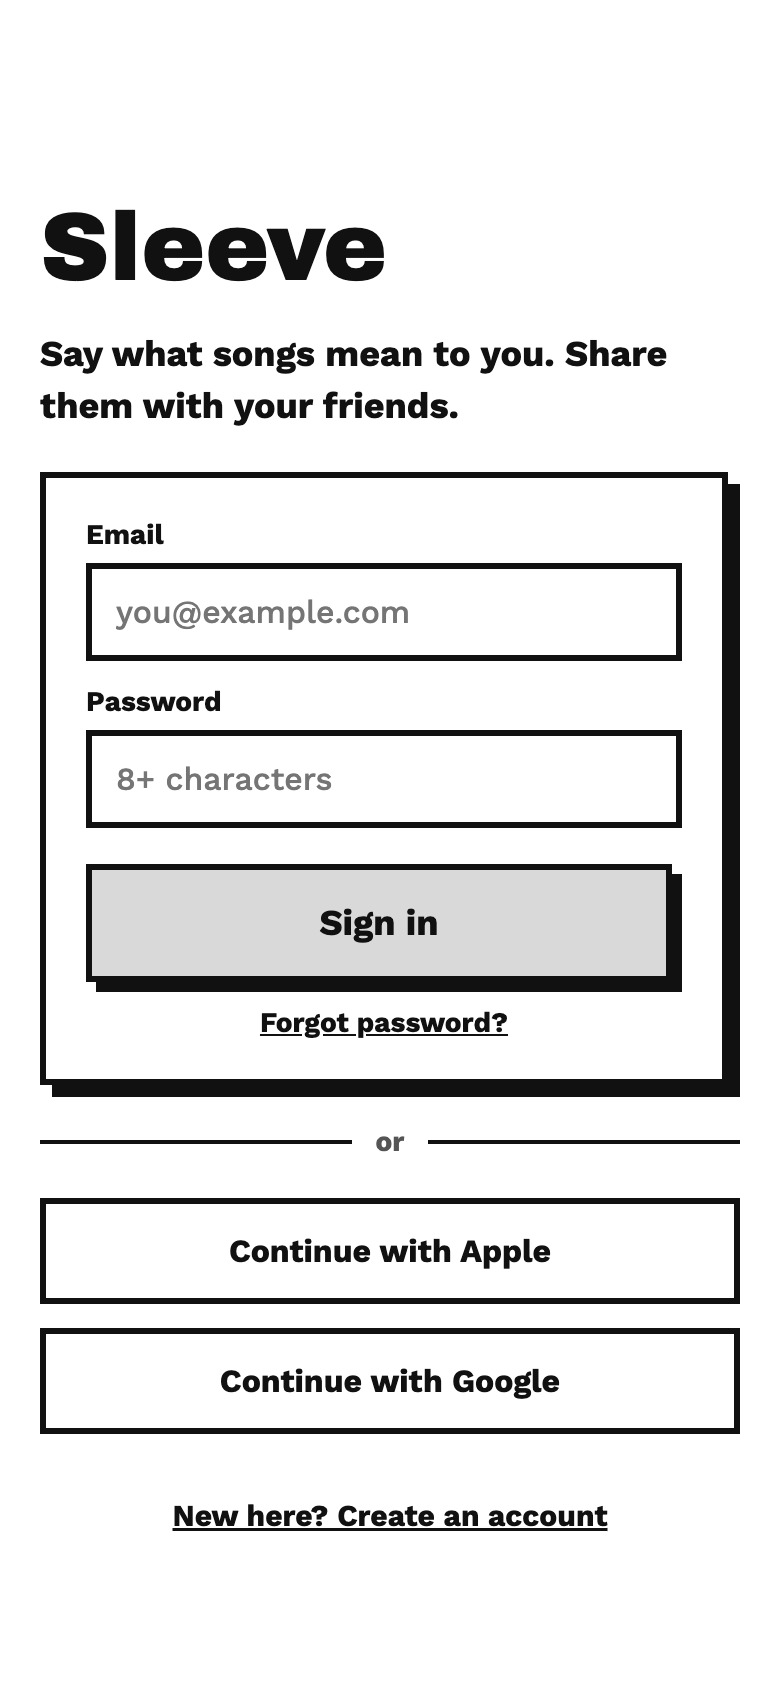
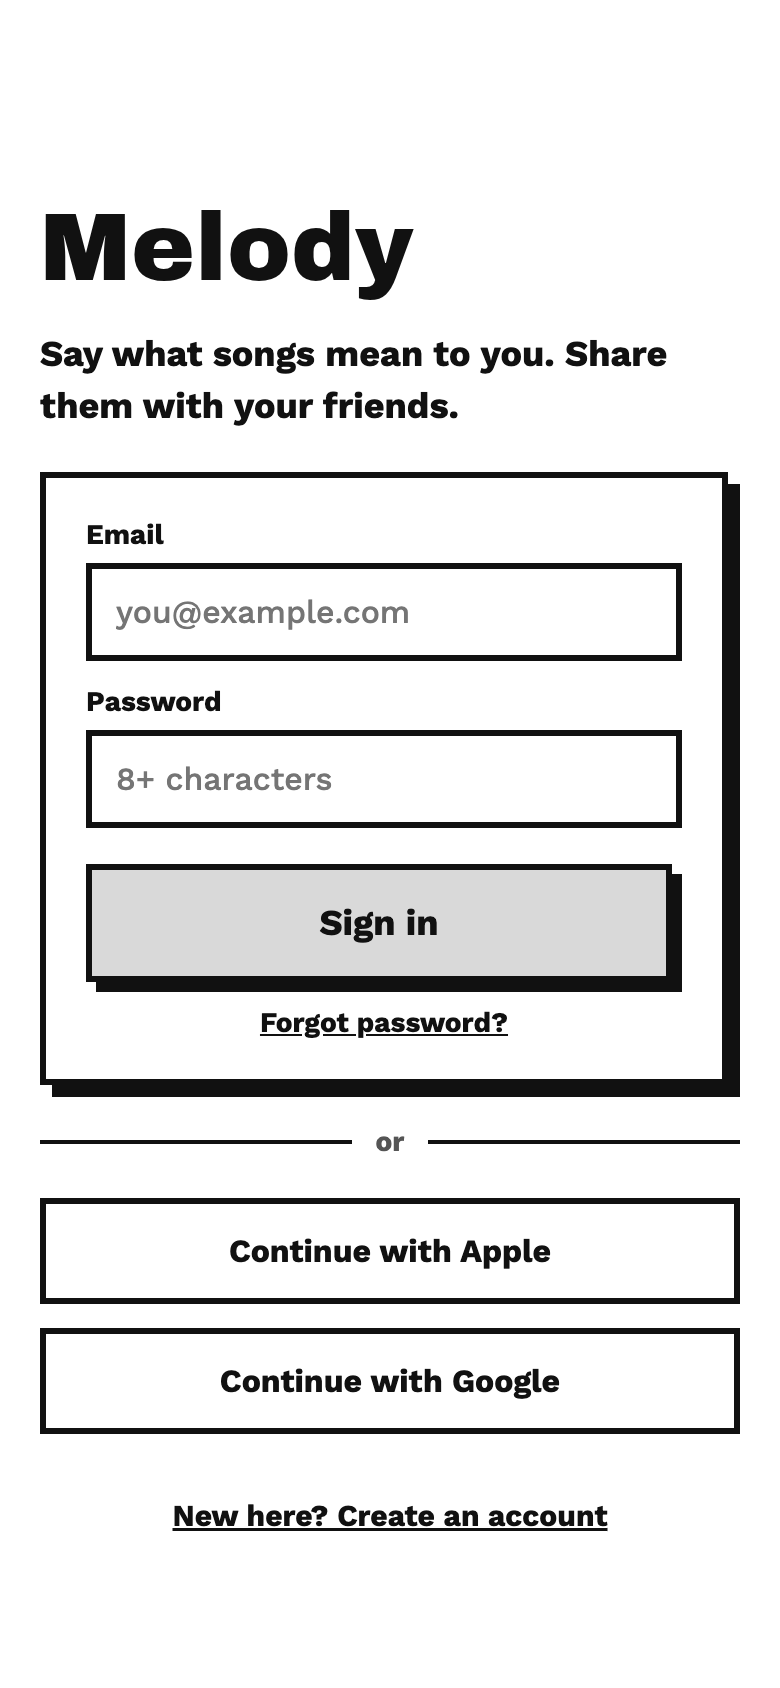
sleeve removed

Changed region(s): [[0.0615, 0.1232, 0.5231, 0.1848]]

diff --git a/prototype-react/src/screens.js b/prototype-react/src/screens.js
@@ -83,7 +83,7 @@ export function createScreenMarkup(id, S) {
   /* ---------- Template helpers ---------- */
   const esc = s => String(s).replace(/[&<>"]/g, c => ({ '&': '&amp;', '<': '&lt;', '>': '&gt;', '"': '&quot;' }[c]));
   const val = id => esc(S.inputs[id] || '');
-  const av = (sz, extra = '', seed = 'sleeve-friend') => `<span class="av ${sz < 44 ? 'thin' : ''}" style="--sz:${sz}px" ${extra}>${personAvatarSVG(seed)}</span>`;
+  const av = (sz, extra = '', seed = 'melody-friend') => `<span class="av ${sz < 44 ? 'thin' : ''}" style="--sz:${sz}px" ${extra}>${personAvatarSVG(seed)}</span>`;
   const art = sz => `<span class="art" style="--sz:${sz}px"></span>`;
   const play = (key, cls = '') => {
     const on = S.playing === key;
@@ -101,7 +101,7 @@ export function createScreenMarkup(id, S) {
   /* ---------- Screens ---------- */
   const SCREENS = {
     signin: () => `<div class="scr"><div class="scroll signin">
-      <h1 class="h-xl">Sleeve</h1>
+      <h1 class="h-xl">Melody</h1>
       <p class="tagline">Say what songs mean to you. Share them with your friends.</p>
       <form class="card sh form" data-form="signin">
         <label class="label" for="si-email">Email</label>
@@ -253,7 +253,7 @@ export function createScreenMarkup(id, S) {
     'add-friends': () => `<div class="scr"><div class="scroll">
       <div class="title-row start"><button class="icon-btn" type="button" data-back aria-label="Back">${ic.left}</button><h1 class="h-page h-mid">Add friends</h1></div>
       ${searchBox('add-q', 'Search by @handle', 'addsearch')}
-      <section class="card sh fill invite"><span class="tt"><b>Invite friends to Sleeve</b><span>Send a link by text or any app</span></span><button class="btn" type="button" data-missing="Share link">Share link</button></section>
+      <section class="card sh fill invite"><span class="tt"><b>Invite friends to Melody</b><span>Send a link by text or any app</span></span><button class="btn" type="button" data-missing="Share link">Share link</button></section>
       <ul class="rows" id="add-list">${addRows()}</ul>
     </div></div>`,
 

diff --git a/prototype/app.js b/prototype/app.js
@@ -154,7 +154,7 @@
   /* ---------- Screens ---------- */
   const SCREENS = {
     signin: () => `<div class="scr"><div class="scroll signin">
-      <h1 class="h-xl">Sleeve</h1>
+      <h1 class="h-xl">Melody</h1>
       <p class="tagline">Say what songs mean to you. Share them with your friends.</p>
       <form class="card sh form" data-form="signin">
         <label class="label" for="si-email">Email</label>
@@ -306,7 +306,7 @@
     'add-friends': () => `<div class="scr"><div class="scroll">
       <div class="title-row start"><button class="icon-btn" type="button" data-back aria-label="Back">${ic.left}</button><h1 class="h-page h-mid">Add friends</h1></div>
       ${searchBox('add-q', 'Search by @handle', 'addsearch')}
-      <section class="card sh fill invite"><span class="tt"><b>Invite friends to Sleeve</b><span>Send a link by text or any app</span></span><button class="btn" type="button" data-missing="Share link">Share link</button></section>
+      <section class="card sh fill invite"><span class="tt"><b>Invite friends to Melody</b><span>Send a link by text or any app</span></span><button class="btn" type="button" data-missing="Share link">Share link</button></section>
       <ul class="rows" id="add-list">${addRows()}</ul>
     </div></div>`,
 

diff --git a/prototype-react/src/Prototype.jsx b/prototype-react/src/Prototype.jsx
@@ -9,7 +9,7 @@ function routeId() {
 }
 
 function savedRoute(id) {
-  const saved = history.state?.sleevePrototypeReact
+  const saved = history.state?.melodyPrototypeReact
   return saved && Array.isArray(saved.stack) && saved.stack.length &&
     saved.stack.every(validScreen) && saved.stack.at(-1) === id &&
     Number.isInteger(saved.index) && saved.index >= 0 && saved.index < saved.stack.length
@@ -23,7 +23,7 @@ function initialRoute() {
 }
 
 function writeHistory(method, route) {
-  history[method]({ sleevePrototypeReact: route }, '', '#/' + route.stack.at(-1))
+  history[method]({ melodyPrototypeReact: route }, '', '#/' + route.stack.at(-1))
 }
 
 export default function Prototype() {
@@ -318,7 +318,7 @@ export default function Prototype() {
         <div className="panel-head">
           <div>
             <p className="eyebrow">Lo-fi prototype</p>
-            <h1>Sleeve</h1>
+            <h1>Melody</h1>
             <p className="panel-sub">13 frames, one at a time. Tap through it like the real app, or jump to any frame here.</p>
           </div>
           <button className="panel-close" type="button" onClick={() => setPanelOpen(false)}>Done</button>

diff --git a/prototype-react/tests/prototype.spec.js b/prototype-react/tests/prototype.spec.js
@@ -20,6 +20,8 @@ test('all 13 screens render with assets and fit the viewport', async ({ page }, 
 
 test('sign in, tabs, likes, history and reload work', async ({ page }) => {
   await page.goto('/')
+  await expect(page).toHaveTitle('Melody React Prototype')
+  await expect(page.locator('#screen h1')).toHaveText('Melody')
   await page.getByRole('button', { name: 'Sign in', exact: true }).click()
   await expect(page.locator('#screen')).toHaveAttribute('data-screen', 'discover')
   await page.getByRole('button', { name: 'Friends', exact: true }).click()
@@ -56,6 +58,7 @@ test('song drops and comments clear submitted inputs', async ({ page }) => {
 
 test('friend search, requests and messages work', async ({ page }) => {
   await page.goto('/#/add-friends')
+  await expect(page.locator('.invite b')).toHaveText('Invite friends to Melody')
   await page.getByRole('searchbox').fill('@noor')
   await expect(page.locator('#add-list > li')).toHaveCount(1)
   const request = page.locator('[data-action="addFriend"]')

diff --git a/prototype/index.html b/prototype/index.html
@@ -3,7 +3,7 @@
 <head>
 <meta charset="utf-8">
 <meta name="viewport" content="width=device-width, initial-scale=1, viewport-fit=cover">
-<title>Sleeve Lo-fi Prototype</title>
+<title>Melody Lo-fi Prototype</title>
 <link rel="preconnect" href="https://fonts.googleapis.com">
 <link rel="preconnect" href="https://fonts.gstatic.com" crossorigin>
 <link rel="stylesheet" href="https://fonts.googleapis.com/css2?family=Archivo+Black&family=Archivo:wght@500;600;700;800&family=Work+Sans:wght@400;500;600&display=swap">
@@ -15,7 +15,7 @@
     <div class="panel-head">
       <div>
         <p class="eyebrow">Lo-fi prototype</p>
-        <h1>Sleeve</h1>
+        <h1>Melody</h1>
         <p class="panel-sub">13 frames, one at a time. Tap through it like the real app, or jump to any frame here.</p>
       </div>
       <button class="panel-close" id="panelClose" type="button">Done</button>

diff --git a/prototype-react/index.html b/prototype-react/index.html
@@ -6,7 +6,7 @@
     <link rel="preconnect" href="https://fonts.googleapis.com" />
     <link rel="preconnect" href="https://fonts.gstatic.com" crossorigin />
     <link rel="stylesheet" href="https://fonts.googleapis.com/css2?family=Archivo+Black&family=Archivo:wght@500;600;700;800&family=Work+Sans:wght@400;500;600&display=swap" />
-    <title>Sleeve React Prototype</title>
+    <title>Melody React Prototype</title>
   </head>
   <body>
     <div id="root"></div>

diff --git a/prototype-react/src/avatars.js b/prototype-react/src/avatars.js
@@ -21,7 +21,7 @@ export const AV_TABS = [
   { id: 'colors', label: 'Colors', rows: [], colors: [['Skin tone', 'skinColor'], ['Background', 'bg']] },
 ]
 
-export function initialAvatar(seed = 'sleeve-you') {
+export function initialAvatar(seed = 'melody-you') {
   return {
     seed, tab: 'hair', ...Object.fromEntries(features.map(feature => [feature, 0])),
     hairColor: 0, skinColor: 0, bg: 2,

diff --git a/prototype-react/README.md b/prototype-react/README.md
@@ -1,6 +1,6 @@
-# Sleeve React Prototype
+# Melody React Prototype
 
-An independent React + JavaScript + HTML + CSS version of the 13-screen Sleeve
+An independent React + JavaScript + HTML + CSS version of the 13-screen Melody
 prototype. This folder owns its dependencies, assets, and build output. It does
 not import code from `../prototype/` or from the future production application.
 The original static prototype remains unchanged.
